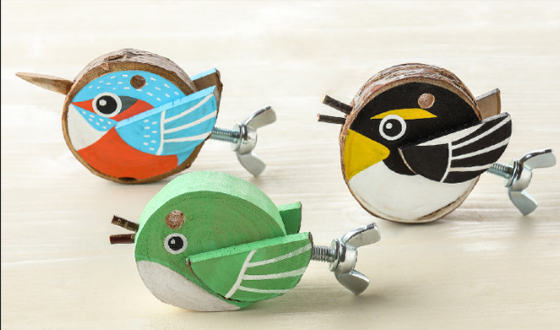
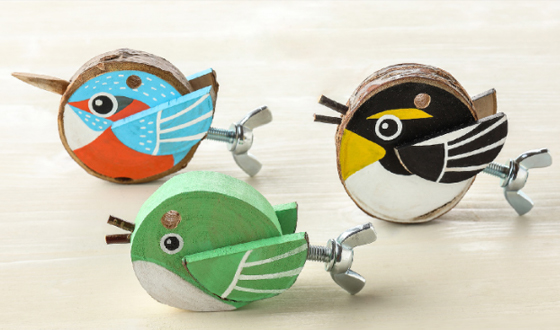
Add slider features on common slider

Changed region(s): [[0.0, 0.1212, 0.7286, 0.9394], [0.5464, 0.1818, 1.0, 0.697], [0.2732, 0.9091, 0.3339, 0.9394]]

diff --git a/resources/assets/js/common-slider.js b/resources/assets/js/common-slider.js
@@ -7,25 +7,22 @@ slider({
 
   options: {
     speed: 1500,
-    initialSlide: 1,
-    centeredSlides: false,
-   
+    slidesPerView: 3,
+    spaceBetween: 60,
+    loop: true,
+    centeredSlides: true,
+    autoplay: {
+      delay: 3000,
+      disableOnInteraction: false
+    },
     breakpoints: {
       1280: {
-        slidesPerView: 2.5,
+        slidesPerView: 3,
         spaceBetween: 60,
-        loopedSlides: 0,
-        initialSlide: 1,
-        slidesPerGroup: 3,
       },
-
       375: {
+        slidesPerView: 3,
         spaceBetween: 20,
-        centeredSlides: true,
-        slidesPerView: 1.5,
-        initialSlide: 1,
-        loopedSlides: 0,
-        loop: true,
         pagination: {
           el: '.swiper-pagination',
           clickable: true
@@ -41,21 +38,21 @@ slider({
   target: '.js-slider-bottom', // REQUIRED
 })
 
-slider({
-  id: 'commonSlider', // REQUIRED
-  target: '.js-slider-craft', // REQUIRED
-  options: {
-		slidesPerView: 3,
-		spaceBetween: 60,
-		breakpoints: {
-			1280: {
-				slidesPerView: 3,
-				spaceBetween: 60,
-			},
-      375: {
-        spaceBetween: 17,
-        slidesPerView: 3,
-      }
-    },
-	}
-})
+// slider({
+//   id: 'commonSlider', // REQUIRED
+//   target: '.js-slider-craft', // REQUIRED
+//   options: {
+// 		slidesPerView: 3,
+// 		spaceBetween: 60,
+// 		breakpoints: {
+// 			1280: {
+// 				slidesPerView: 3,
+// 				spaceBetween: 60,
+// 			},
+//       375: {
+//         spaceBetween: 17,
+//         slidesPerView: 3,
+//       }
+//     },
+// 	}
+// })

diff --git a/resources/assets/css/components/_common-slider.scss b/resources/assets/css/components/_common-slider.scss
@@ -1,16 +1,21 @@
 .common-slider {
   position: relative;
+  margin: 0 -176px;
+
+  @include max-screen($breakpoint-mobile) {
+    margin: 0 -214px;
+  }
 
   .swiper-wrapper {
-    justify-content: center;
-    margin-left: 40px;
+   // justify-content: center;
+    //margin-left: 40px;
 
     .swiper-slide-prev {
-      opacity: 0.7;
+      opacity: 0.5;
     }
 
     .swiper-slide-next {
-      opacity: 0.7;
+      opacity: 0.5;
     }
   }
 

diff --git a/resources/assets/css/components/_top-slider.scss b/resources/assets/css/components/_top-slider.scss
@@ -42,15 +42,4 @@
     width: 100%;
     height: auto;
   }
-
-  .forest-craft & {
-    padding-top: 59.25%;
-    background-repeat: no-repeat;
-    background-size: cover;
-
-    @include max-screen($breakpoint-mobile) {
-      padding-top: 55%;
-      margin-bottom: 0;
-    }
-  }
 }

diff --git a/resources/assets/css/components/_custom-swiper.scss b/resources/assets/css/components/_custom-swiper.scss
@@ -1,5 +1,10 @@
 .swiper-container {
   overflow: visible;
+  opacity: 0;
+
+  &.swiper-container-initialized {
+    opacity: 1;
+  }
 
   .forest-craft & {
   	@include min-screen($breakpoint-mobile + 1) {
